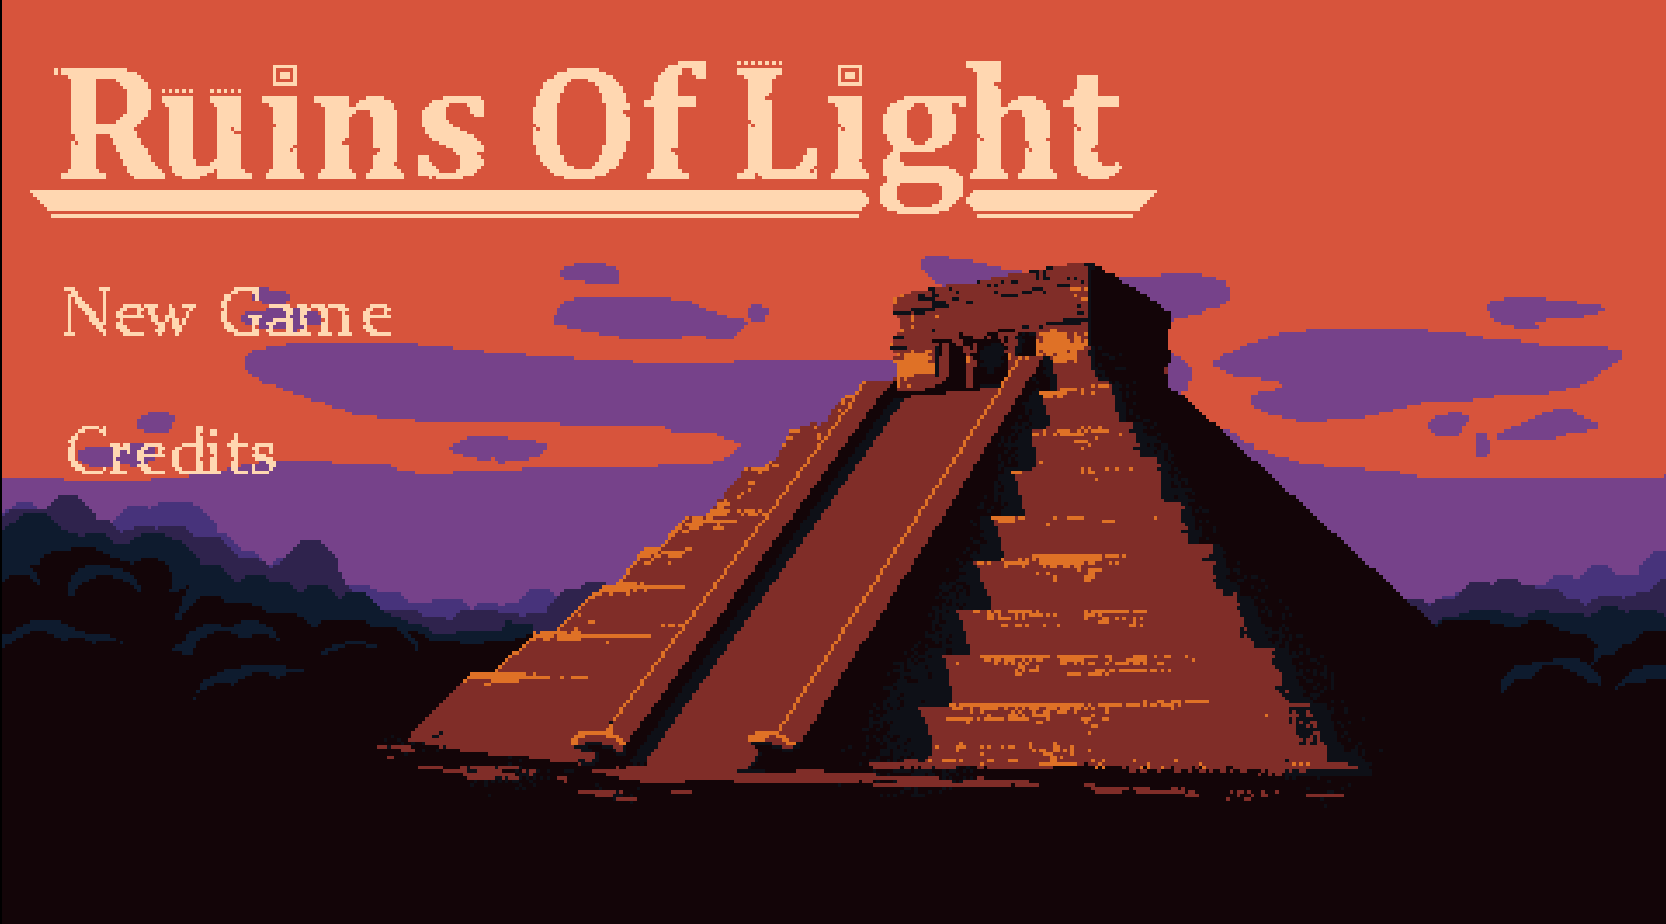
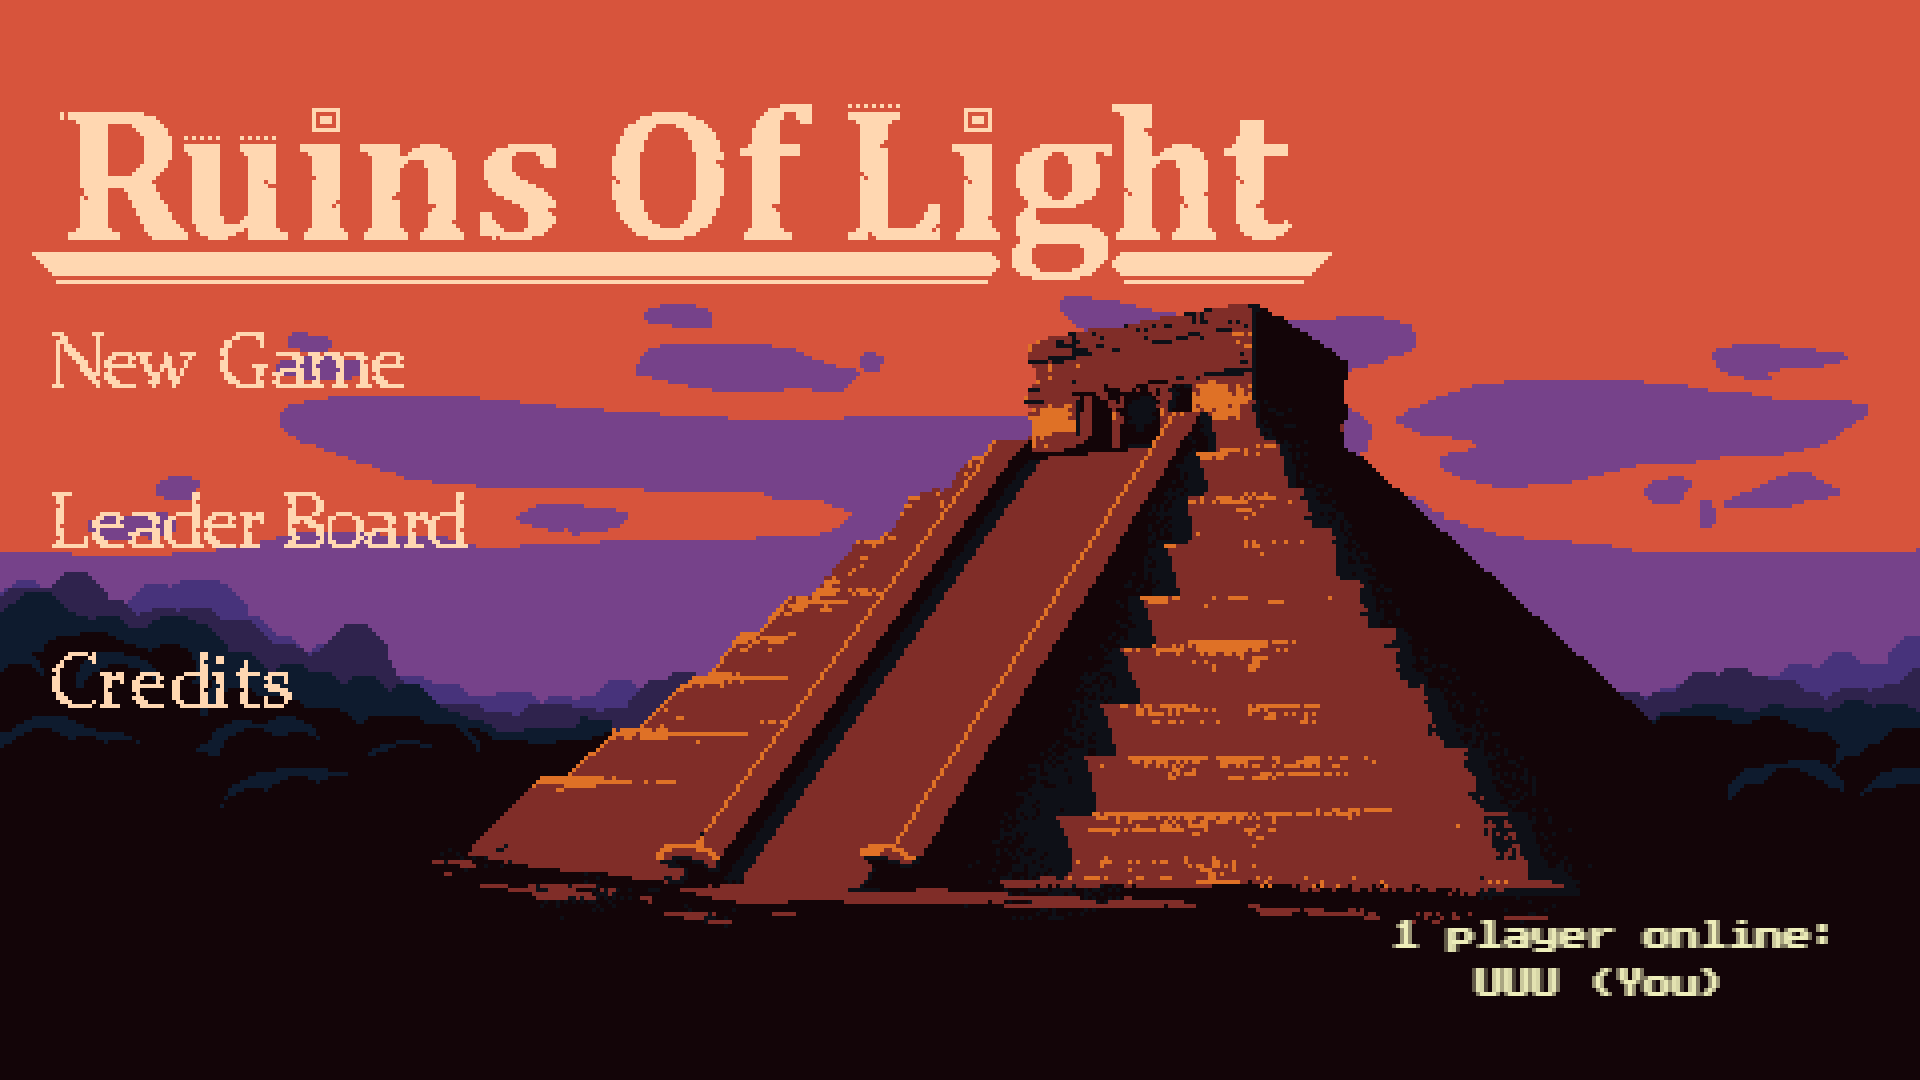
Actualizar README

diff --git a/README.md b/README.md
@@ -60,7 +60,9 @@ Diagrama de Flujo:
 
 Escenas:
 
+![alt tag](/resources/img/ReadMe/LogIn.png)
 ![alt tag](/resources/img/ReadMe/Menu.png)
+![alt tag](/resources/img/ReadMe/LeaderBoard.png)
 ![alt tag](/resources/img/ReadMe/Intro.png)
 ![alt tag](/resources/img/ReadMe/Cinematica.png)
 ![alt tag](/resources/img/ReadMe/Altares.png)
@@ -144,4 +146,52 @@ Efectos*: Ataque Espada, Ataque enemigos, Despertar y Muerte de guardianes jefes
 Arte conceptual: Guía de estilo: El estilo artístico empleado para los personajes y los escenarios es el pixel art. Los distintos personajes tendrán animaciones de movimiento, ataque, salto, etc. Los escenarios toman inspiración de antiguas civilizaciones. La arquitectura se caracteriza por emplear piedra con detalles de luz emisiva que representa la energía que recorre el templo y a sus guardianes. Galería de imágenes: Véanse imágenes en la carpeta de recursos del siguiente enlace.
 https://github.com/damacaa/RuinsOfLight/tree/main/resources
  
+
+5.-API REST:
+5.1.-Diagrama de clases y API REST: En el lado del servidor encontramos un diagrama de clases basado en la arquitectura software MVC (Modelo Vista Controlador), tal como el que se muestra en la siguiente imagen.
+![alt tag](/resources/img/ReadMe/MVC.png)
+
+
+5.2.- Instrucciones precisas para ejecutar la aplicación: compilación, cómo ejecutar el .jar, qué hace falta instalar en la máquina, qué URL cargar en el navegador para empezar a jugar, etc.
+
+¿Qué hace falta instalar? 
+Hay que tener instalado Java. Se ha desarrollado en la versión 1.8 y no se puede garantizar que funcione en versiones anteriores. De cara a futuras versiones podría suceder algo similar.
+Hay que tener instalado un navegador web. El equipo de desarrollo recomienda utilizar Google Chrome.
+
+Para compilar: Importar el proyecto en el STS, y ejecutarlo como “Maven build”. Esto generará un archivo .jar en la carpeta target.
+
+Para ejecutar el .jar: Se puede ejecutar haciendo doble click, pero no es recomendable. Para ejecutar se debe abrir una consola de comandos y escribir “java -jar rutaArchivo/nombreArchivo.jar”. No obstante, en la carpeta RuinsOfLight encontrarás el archivo .jar ya compilado así como un un archivo .bat de nombre runRolServer.bat, el cual permite arrancar el .jar y visualizar la consola al mismo tiempo sin tener que abrir la línea de comandos. Con el servidor abierto solo queda escribir “localhost:8080” en el navegador.
+
+
+5.3.- Métodos empleados para hacer peticiones al servidor 
+//PlayerController
+@GetMapping("players/")
+public List<Player> players(): devuelve la lista de jugadores que están online.
+
+@PostMapping("join/")
+public boolean unirsePartida(@RequestBody Player p): recibe un jugador y comprueba que en la lista de jugadores del servidor no haya un jugador con el mismo nombre. Si no lo hay, se añade a la lista de jugadores.
+
+@PostMapping("check/")
+public boolean comprobarJugador(@RequestBody Player p): este método recibe un jugador y comprueba si está en la lista de jugadores del servidor y actualiza última hora de conexión con la hora actua.
+
+@Scheduled(fixedDelay = 500)
+public void CheckPayers(): compara la última hora de conexión de cada uno de los jugadores con la hora actual. Si la diferencia entre estas es mayor a x segundos, el jugador en cuestión es borrado de la lista de jugadores.
+
+//RecordController
+@GetMapping("records/")
+public List<Record> records(): devuelve los récords almacenados en el servidor.
+
+@PostMapping("records/")
+public Record nuevoRecord(@RequestBody Record record): guarda en la lista de récords el récord que recibe y lo escribe en un fichero .txt, para que los récords tengan persistencia.
+
+//ChatController
+@GetMapping("chats/")
+public List<Chat> chats(): devuelve todos los mensajes en el servidor.
+
+@PostMapping("chats/")
+public boolean nuevoChat(@RequestBody Chat chat): guarda en la lista de chats el mensaje que recibe.
+
+@Scheduled(fixedDelay = 1000)
+public void CheckPayers(): compara la hora de creación de cada uno de los mensaje con la hora actual. Si la diferencia entre estas es mayor a x segundos, el mensaje en cuestión es borrado de la lista de mensajes.
+
 
